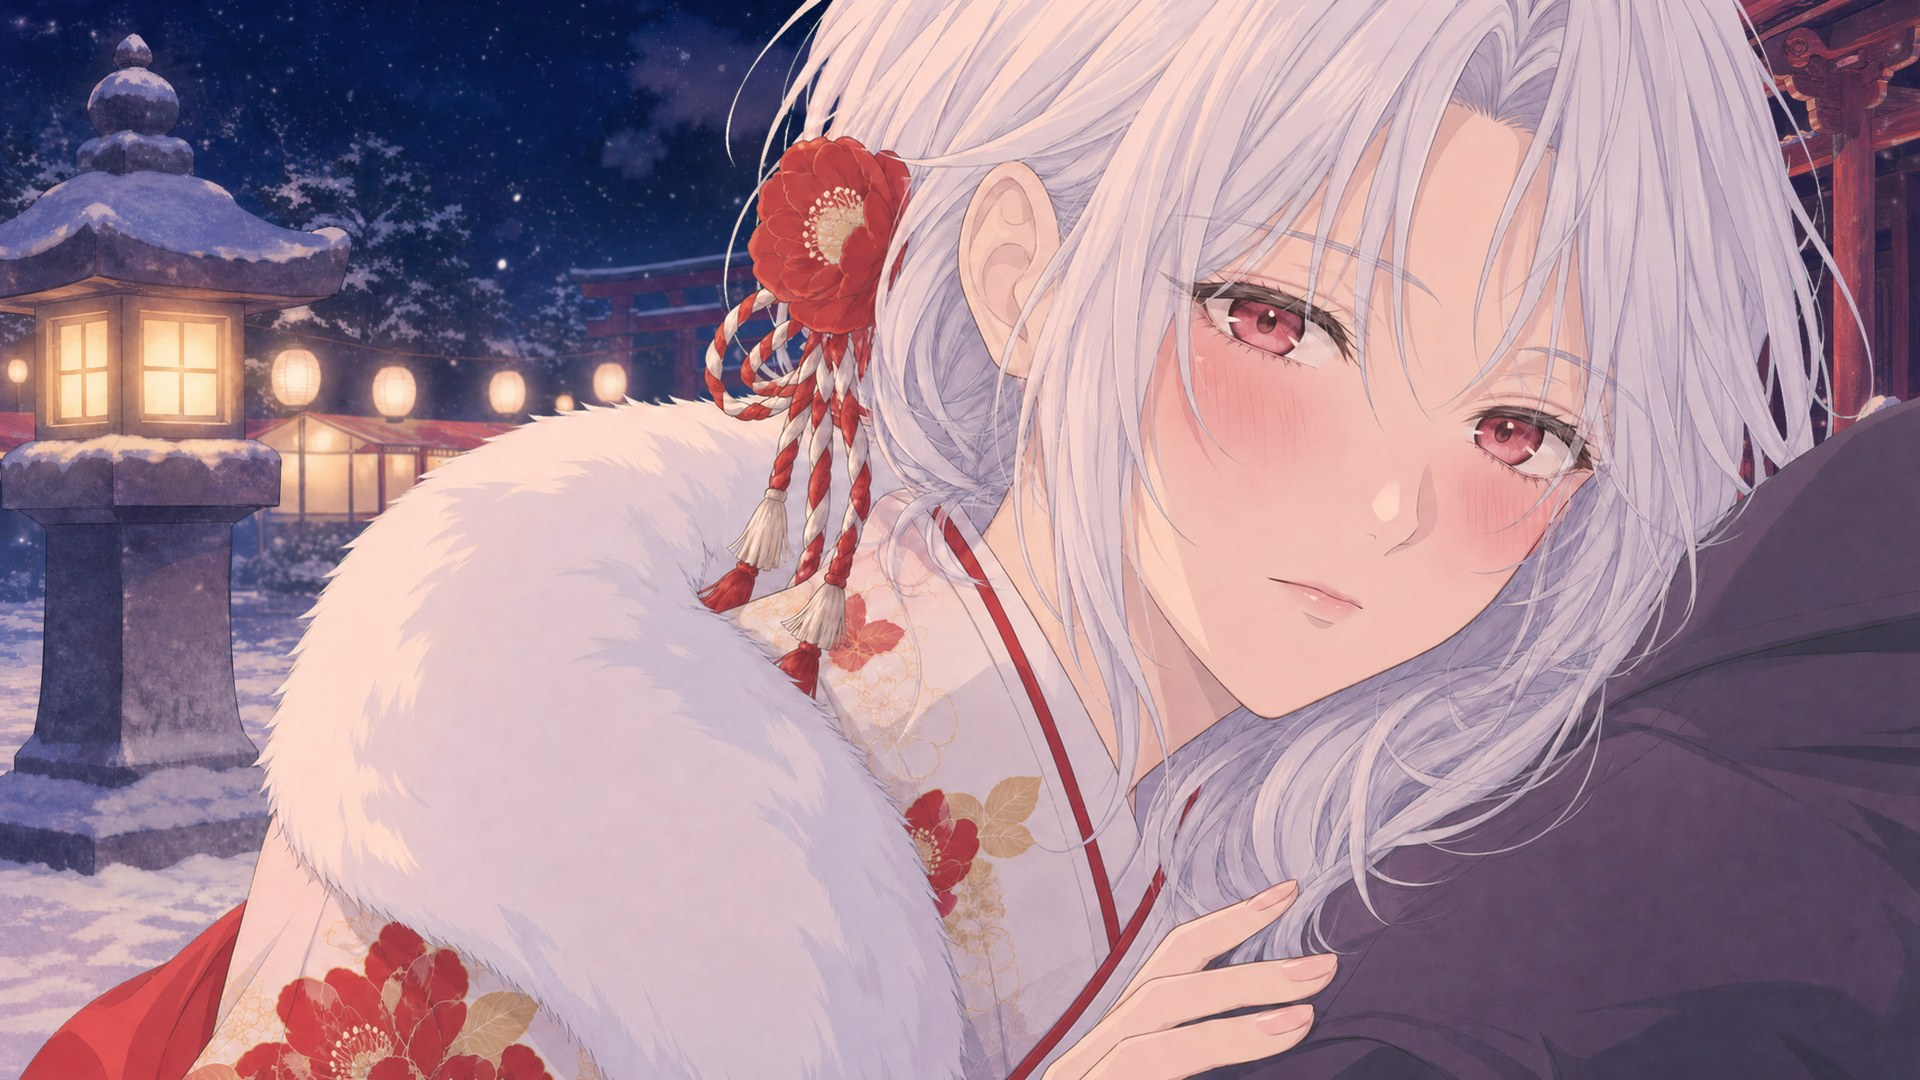
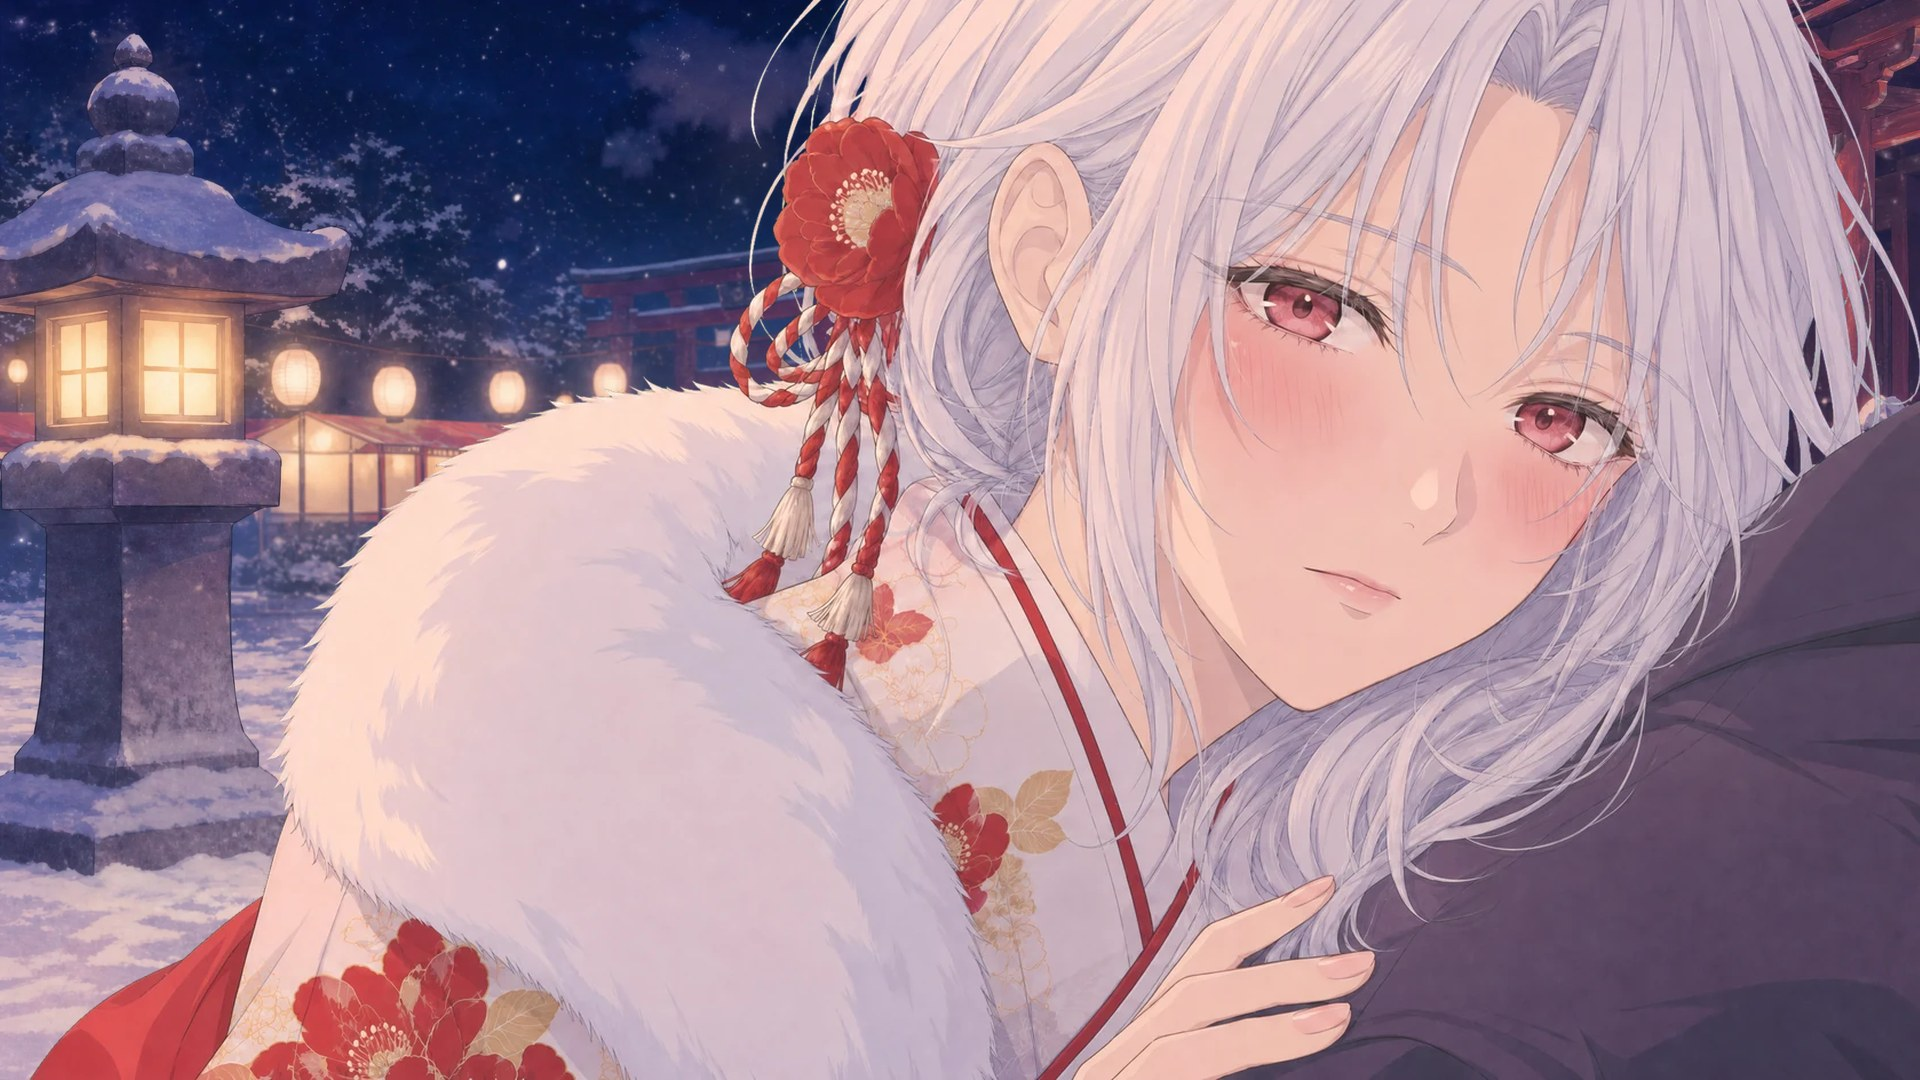
Demo25_HatsumodeDate: figures moved a little so complete edges sit ≥ 1 % inside / cut edges ≥ 1.5 % outside the frame (place_view.py, no rebuild)

diff --git a/demos/for-men/Demo25_HatsumodeDate/media/layers.js b/demos/for-men/Demo25_HatsumodeDate/media/layers.js
@@ -17,7 +17,7 @@ window.MOHEAT_LAYERS = {
     "h": 1432,
     "x": 0.608,
     "y": 1.0,
-    "height": 0.9944,
+    "height": 0.9844,
     "box": [
      907,
      8,
@@ -339,9 +339,9 @@ window.MOHEAT_LAYERS = {
     "src": "art/char_close.webp?v=55578f1d",
     "w": 1700,
     "h": 963,
-    "x": 0.5037,
+    "x": 0.5192,
     "y": 1.0,
-    "height": 1.0,
+    "height": 1.02,
     "box": [
      19,
      0,
